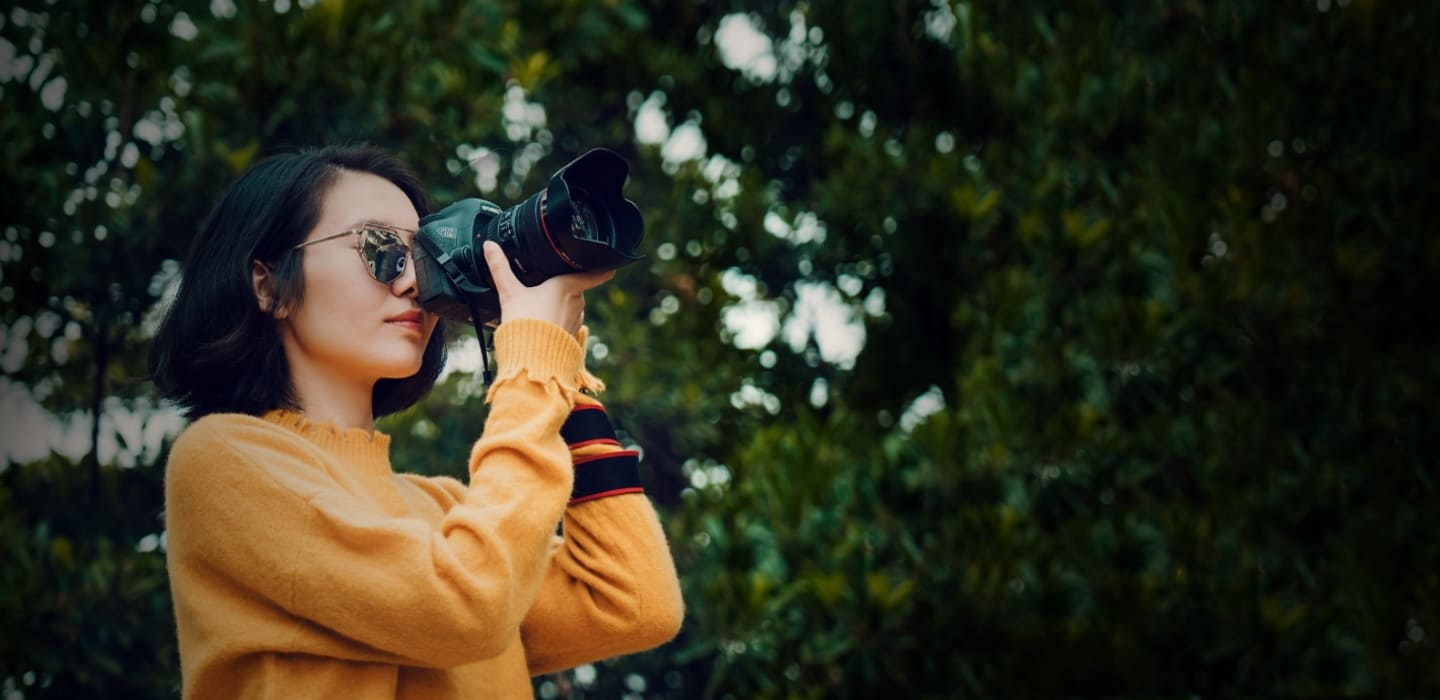
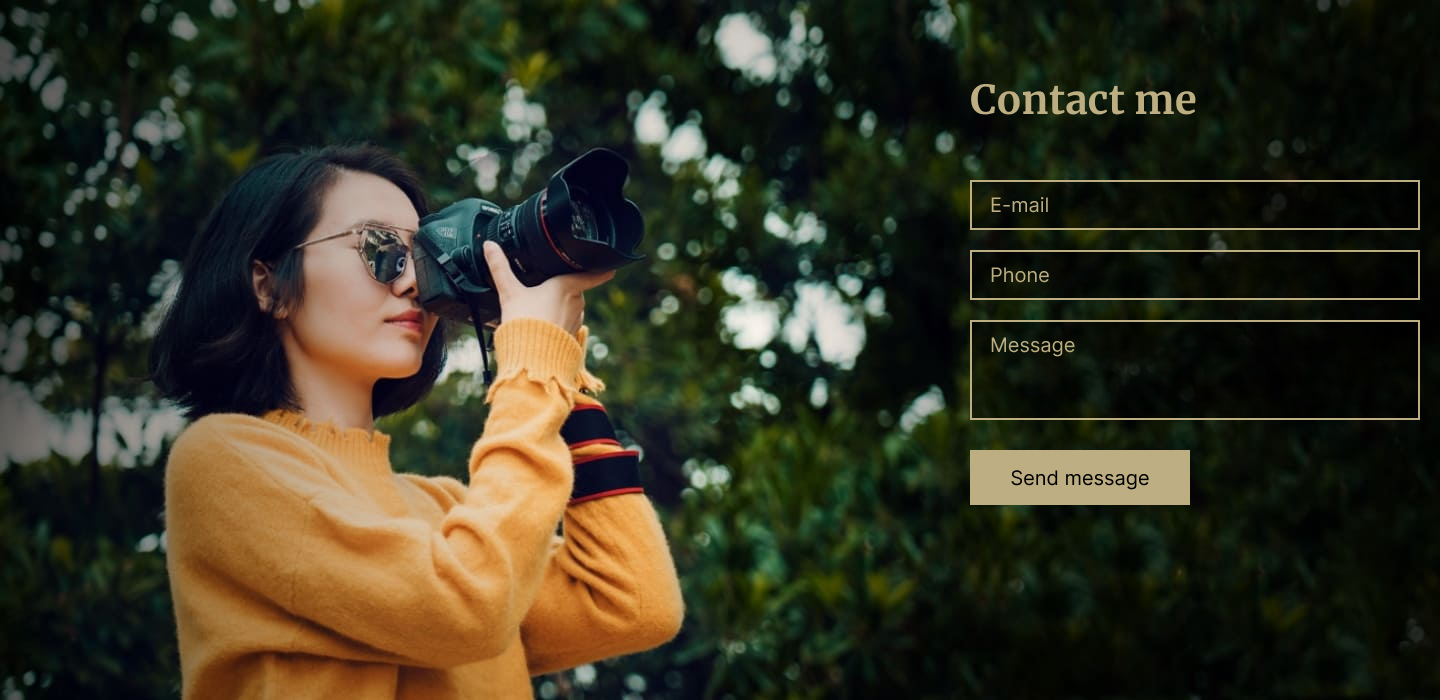
feat: change format imges

diff --git a/portfolio/index.html b/portfolio/index.html
@@ -13,6 +13,7 @@
     <link rel="stylesheet" href="./styles/video.css">
     <link rel="stylesheet" href="./styles/price.css">
     <link rel="stylesheet" href="./styles/contacts.css">
+    <link rel="stylesheet" href="./styles/footer.css">
     <link rel="preconnect" href="https://fonts.googleapis.com">
     <link rel="preconnect" href="https://fonts.gstatic.com" crossorigin>
     <link
@@ -20,6 +21,7 @@
         rel="stylesheet">
     <title>portfolio</title>
 </head>
+
 <body>
     <header class="header">
         <div class="container header__container">
@@ -29,7 +31,7 @@
                     <path
                         d="M20.4506 5.25918C19.0919 5.69691 17.9456 6.47652 17.6601 7.15634L17.5398 7.4419L15.6561 7.43301L15.4116 6.93006C15.2253 6.54668 15.063 6.3708 14.7263 6.18701L14.2864 5.94591H11.1062C6.93498 5.94591 6.40895 6.15341 6.40895 7.80355V8.26796L5.69955 8.61478C3.08441 9.8924 1.03538 12.416 0.225789 15.3546L0.000346207 16.1748V26.2584C0.000346207 37.2698 -0.0327188 36.5584 0.547422 38.1166C1.84798 41.6086 4.86291 44.1352 8.54916 44.8258C9.78859 45.0581 40.2114 45.0581 41.4508 44.8258C45.1371 44.1362 48.152 41.6096 49.4526 38.1166C50.0327 36.5584 49.9997 37.2698 49.9997 26.2584V16.1748L49.7832 15.4031C48.649 11.3647 45.7433 8.61182 41.6342 7.67905C41.02 7.53972 40.2134 7.50514 36.6765 7.46858L32.4532 7.42412L32.3369 7.14745C32.0504 6.46565 30.8209 5.64553 29.4663 5.23349C28.3992 4.9084 21.4756 4.92816 20.4506 5.25918ZM40.0601 10.8222C43.053 11.1256 45.3856 12.9526 46.3976 15.7874L46.6731 16.5591L46.7012 25.871C46.7332 36.5189 46.7653 36.0218 45.9236 37.7342C44.9758 39.662 43.064 41.1205 40.9288 41.5453C39.7856 41.7726 10.2114 41.7726 9.07118 41.5453C6.91594 41.1145 5.0112 39.6284 4.00923 37.5949C3.24473 36.0426 3.26677 36.4072 3.29883 25.871L3.32689 16.5591L3.63149 15.7163C4.60841 13.0168 6.9961 11.1167 9.77356 10.8291C10.9589 10.7066 38.8517 10.6997 40.0601 10.8212V10.8222ZM9.51706 11.8884C6.37889 12.3419 4.35391 14.8942 4.35391 18.398V19.6954H11.0661L11.2915 19.2369C12.2845 17.2123 14.2844 15.0167 16.4357 13.5869C17.2402 13.0524 19.3614 11.9763 19.6109 11.9763C19.669 11.9763 19.7161 11.9328 19.7161 11.8795C19.7161 11.7609 10.3457 11.7678 9.51706 11.8874V11.8884ZM30.2839 11.8548C30.2839 11.9002 30.4492 11.9951 30.6506 12.0652C33.7206 13.1294 37.462 16.4702 38.7385 19.2863L38.9249 19.6964H45.6471V18.399C45.6471 15.1284 44.1341 12.9842 41.1462 12.0168C40.5581 11.8261 30.2849 11.674 30.2849 11.8558L30.2839 11.8548ZM24.0707 12.5178C12.6663 13.6156 7.13237 25.9748 14.0931 34.7976C21.7892 44.5512 37.8768 39.7015 38.8858 27.3236C39.5611 19.0343 32.2528 11.7313 24.0707 12.5178ZM26.6638 15.9455C33.2327 16.8753 37.3277 23.963 34.8278 30.0774C31.9482 37.1216 22.708 38.9279 17.4136 33.4804C10.3908 26.2544 16.5819 14.5187 26.6638 15.9455ZM23.8723 17.5719C17.9617 18.395 14.553 24.3474 16.8885 29.7701C19.5698 35.9942 28.5605 36.7659 32.376 31.1001C36.5512 24.9007 31.2949 16.5394 23.8723 17.5719ZM27.7168 18.9098C28.8581 19.2596 29.7118 20.0768 29.7318 20.8366C29.7779 22.5886 26.2289 22.5332 25.0416 20.7635C24.1388 19.4187 25.747 18.3051 27.7168 18.9098ZM22.701 32.2552C23.7821 32.4805 25.3923 33.4557 25.3923 33.8846C25.3923 34.8865 21.7581 34.2393 20.697 33.0486C19.9636 32.2246 20.8564 31.8708 22.701 32.2552ZM41.9128 35.9991C39.8938 36.6167 40.2846 39.3863 42.3897 39.3794C44.5309 39.3725 44.6902 36.2629 42.564 35.9734C42.3486 35.9438 42.056 35.9556 41.9128 36.0001V35.9991Z"
                         fill="white" />
-                </svg>                
+                </svg>
                 <div class="list-container">
                     <nav class="nav">
                         <ul class="nav-list">
@@ -88,7 +90,8 @@
                     <div class="skills-card">
                         <img class="skills-card__img" src="./assets/svg/skills/audio.svg" alt="microphone">
                         <h3 class="skills-card__title">Audio</h3>
-                        <p class="skills-card__description">Professional sounds recording for video, advertising, portfolio</p>
+                        <p class="skills-card__description">Professional sounds recording for video, advertising,
+                            portfolio</p>
                     </div>
                 </div>
             </div>
@@ -103,12 +106,12 @@
                     <button class="btn btn_active">Autumn</button>
                 </div>
                 <div class="portfolio-items__photo">
-                    <img class="photo" src="./assets/img/portfolio-img.png" width="450" height="560" alt="Photo№1">
-                    <img class="photo" src="./assets/img/portfolio-img2.png" width="450" height="560" alt="Photo№2">
-                    <img class="photo" src="./assets/img/portfolio-img3.png" width="450" height="560" alt="Photo№3">
-                    <img class="photo" src="./assets/img/portfolio-img4.png" width="450" height="560" alt="Photo№4">
-                    <img class="photo" src="./assets/img/portfolio-img5.png" width="450" height="560" alt="Photo№5">
-                    <img class="photo" src="./assets/img/portfolio-img6.png" width="450" height="560" alt="Photo№6">
+                    <img class="photo" src="./assets/img/portfolio-img.jpg" width="450" height="560" alt="Photo№1">
+                    <img class="photo" src="./assets/img/portfolio-img2.jpg" width="450" height="560" alt="Photo№2">
+                    <img class="photo" src="./assets/img/portfolio-img3.jpg" width="450" height="560" alt="Photo№3">
+                    <img class="photo" src="./assets/img/portfolio-img4.jpg" width="450" height="560" alt="Photo№4">
+                    <img class="photo" src="./assets/img/portfolio-img5.jpg" width="450" height="560" alt="Photo№5">
+                    <img class="photo" src="./assets/img/portfolio-img6.jpg" width="450" height="560" alt="Photo№6">
                 </div>
             </div>
         </section>
@@ -127,14 +130,14 @@
                     <div class="price-card">
                         <h3 class="price-card__title">Standard</h3>
                         <p class="price-card__price">500 $</p>
-                        <span class="price-card__description">  One location <br>
-                        120 photos in color <br>
-                        12 photos in retouch <br>
-                        Readiness 2-3 weeks <br>
-                        Make up, visage</span>
-                    <div class="price-card__button">
-                        <button class="btn btn_active">Order shooting</button>
-                    </div>
+                        <span class="price-card__description"> One location <br>
+                            120 photos in color <br>
+                            12 photos in retouch <br>
+                            Readiness 2-3 weeks <br>
+                            Make up, visage</span>
+                        <div class="price-card__button">
+                            <button class="btn btn_active">Order shooting</button>
+                        </div>
                     </div>
                     <div class="price-card">
                         <h3 class="price-card__title">Premium</h3>
@@ -165,19 +168,36 @@
         </section>
         <section class="contacts" id="contacts">
             <div class="container contacts__wrapper">
-
+                <div>
+                    <h2 class="contacts__title">Contact me</h2>
+                    <form action="" method='POST' class="contacts__form">
+                        <input class="contacts__field" type="email" placeholder="E-mail">
+                        <input class="contacts__field" type="tel" placeholder="Phone">
+                        <textarea class="contacts__field contacts__field_textarea" name="" id="" cols="30" rows="10"
+                            placeholder="Message"></textarea>
+                        <button type="submit" class="btn btn_active">Send message</button>
+                    </form>
+                </div>
             </div>
-
         </section>
-
-
-
-
-
-
     </main>
+    <footer class="footer">
+        <div class="container footer__wrapper">
+            <div>
+                <img src="./assets/svg/©.svg" alt="copyright">
+                <a class="github" href="https://github.com/sharapovkv">2022
+                    <span>github</span>
+                </a>
+            </div>
+            <a href="https://rs.school/" class="rolling-scopes-scohol">Rolling Scopes School</a>
+            <div class="social">
+                <img src="./assets/svg/instagram.svg" alt="instagram">
+                <img src="./assets/svg/facebook.svg" alt="facebook">
+                <img src="./assets/svg/twitter.svg" alt="twitter">
+                <img src="./assets/svg/pinterest.svg" alt="pinterest">
+            </div>
+        </div>
+    </footer>
     <script src='./index.js'></script>
-    
 </body>
-
 </html>

diff --git a/portfolio/styles/contacts.css b/portfolio/styles/contacts.css
@@ -4,5 +4,76 @@
 }
 
 .contacts__wrapper {
+  display: flex;
+  justify-content: flex-end;
   background: url("../assets/img/contacts.jpg") no-repeat;
+  padding: 60px 20px 195px 0px;
+}
+
+.contacts__title {
+  font-family: Merriweather;
+  font-style: normal;
+  font-weight: bold;
+  font-size: 40px;
+  line-height: 80px;
+  color: #bdae82;
+}
+
+.contacts__field {
+  background: rgba(0, 0, 0, 0.5);
+  border: 2px solid #bdae82;
+  outline: none;
+  font-family: Inter;
+  font-style: normal;
+  font-weight: normal;
+  font-size: 20px;
+  line-height: 40px;
+  color: #bdae82;
+  display: block;
+  width: 450px;
+  padding: 2px 0 3px 18px;
+  margin-bottom: 21px;
+}
+
+.contacts__field::placeholder {
+  font-family: Inter;
+  font-style: normal;
+  font-weight: normal;
+  font-size: 20px;
+  line-height: 40px;
+  color: #bdae82;
+}
+
+.contacts__field_textarea {
+  resize: none;
+  height: 100px;
+  margin-bottom: 30px;
+}
+
+.contacts__form {
+  padding-top: 40px;
+}
+
+.github {
+  font-family: Inter;
+  font-style: normal;
+  font-weight: normal;
+  font-size: 20px;
+  line-height: 50px;
+  color: #ffffff;
+}
+
+.rolling-scopes-scohol {
+  font-family: Inter;
+  font-style: normal;
+  font-weight: normal;
+  font-size: 20px;
+  line-height: 50px;
+  color: #ffffff;
+}
+
+.footer__wrapper {
+  display: flex;
+  justify-content: space-between;
+  padding: 50px 0 50px 0;
 }

diff --git a/portfolio/styles/video.css b/portfolio/styles/video.css
@@ -42,8 +42,9 @@
 
 .video-container {
   background: url("../assets/img/video-player.png") no-repeat;
-  width: 1400px;
+  max-width: 1400px;
   height: 705px;
+  margin: 0 auto;
 }
 
 .video-player {
@@ -56,7 +57,7 @@
 
 .btn-play {
   position: absolute;
-  background: url("../assets/svg/video/Play_hover.svg") no-repeat;
+  background: url("../assets/svg/Play_hover.svg") no-repeat;
   width: 130px;
   height: 130px;
   cursor: pointer;

diff --git a/portfolio/styles/price.css b/portfolio/styles/price.css
@@ -11,11 +11,13 @@
   justify-content: center;
   flex-wrap: wrap;
   padding-top: 60px;
-  gap: 5px;
+  gap: 25px;
 }
 
 .price-card {
   width: 450px;
+  border: 3px solid #BDAE82;
+  padding-top: 40px;
 }
 
 .price-card__title {
@@ -54,5 +56,6 @@
 .price-card__button {
   display: flex;
   justify-content: center;
-  padding-top: 48px;
+  padding-top: 40px;
+  padding-bottom: 40px;
 }

diff --git a/portfolio/Index.js b/portfolio/Index.js
@@ -1,0 +1,3 @@
+console.log(
+  "Вёрстка валидная +10 \nВёрстка семантическая +20 \nВёрстка соответствует макету +48 \nТребования к css + 12 \nИнтерактивность, реализуемая через css +20"
+);

diff --git a/portfolio/styles/header.css b/portfolio/styles/header.css
@@ -5,7 +5,6 @@
 .container {
   max-width: 1440px;
   margin: 0 auto;
-  padding: 0 20px;
 }
 
 .header__container {

diff --git a/portfolio/styles/portfolio.css b/portfolio/styles/portfolio.css
@@ -3,7 +3,7 @@
 }
 
 .portfolio__wrapper {
-  padding-top: 100px;
+  padding-top: 110px;
 }
 
 .portfolio-items {

diff --git a/portfolio/styles/footer.css b/portfolio/styles/footer.css
@@ -1,0 +1,3 @@
+.footer {
+    background: black;
+}
